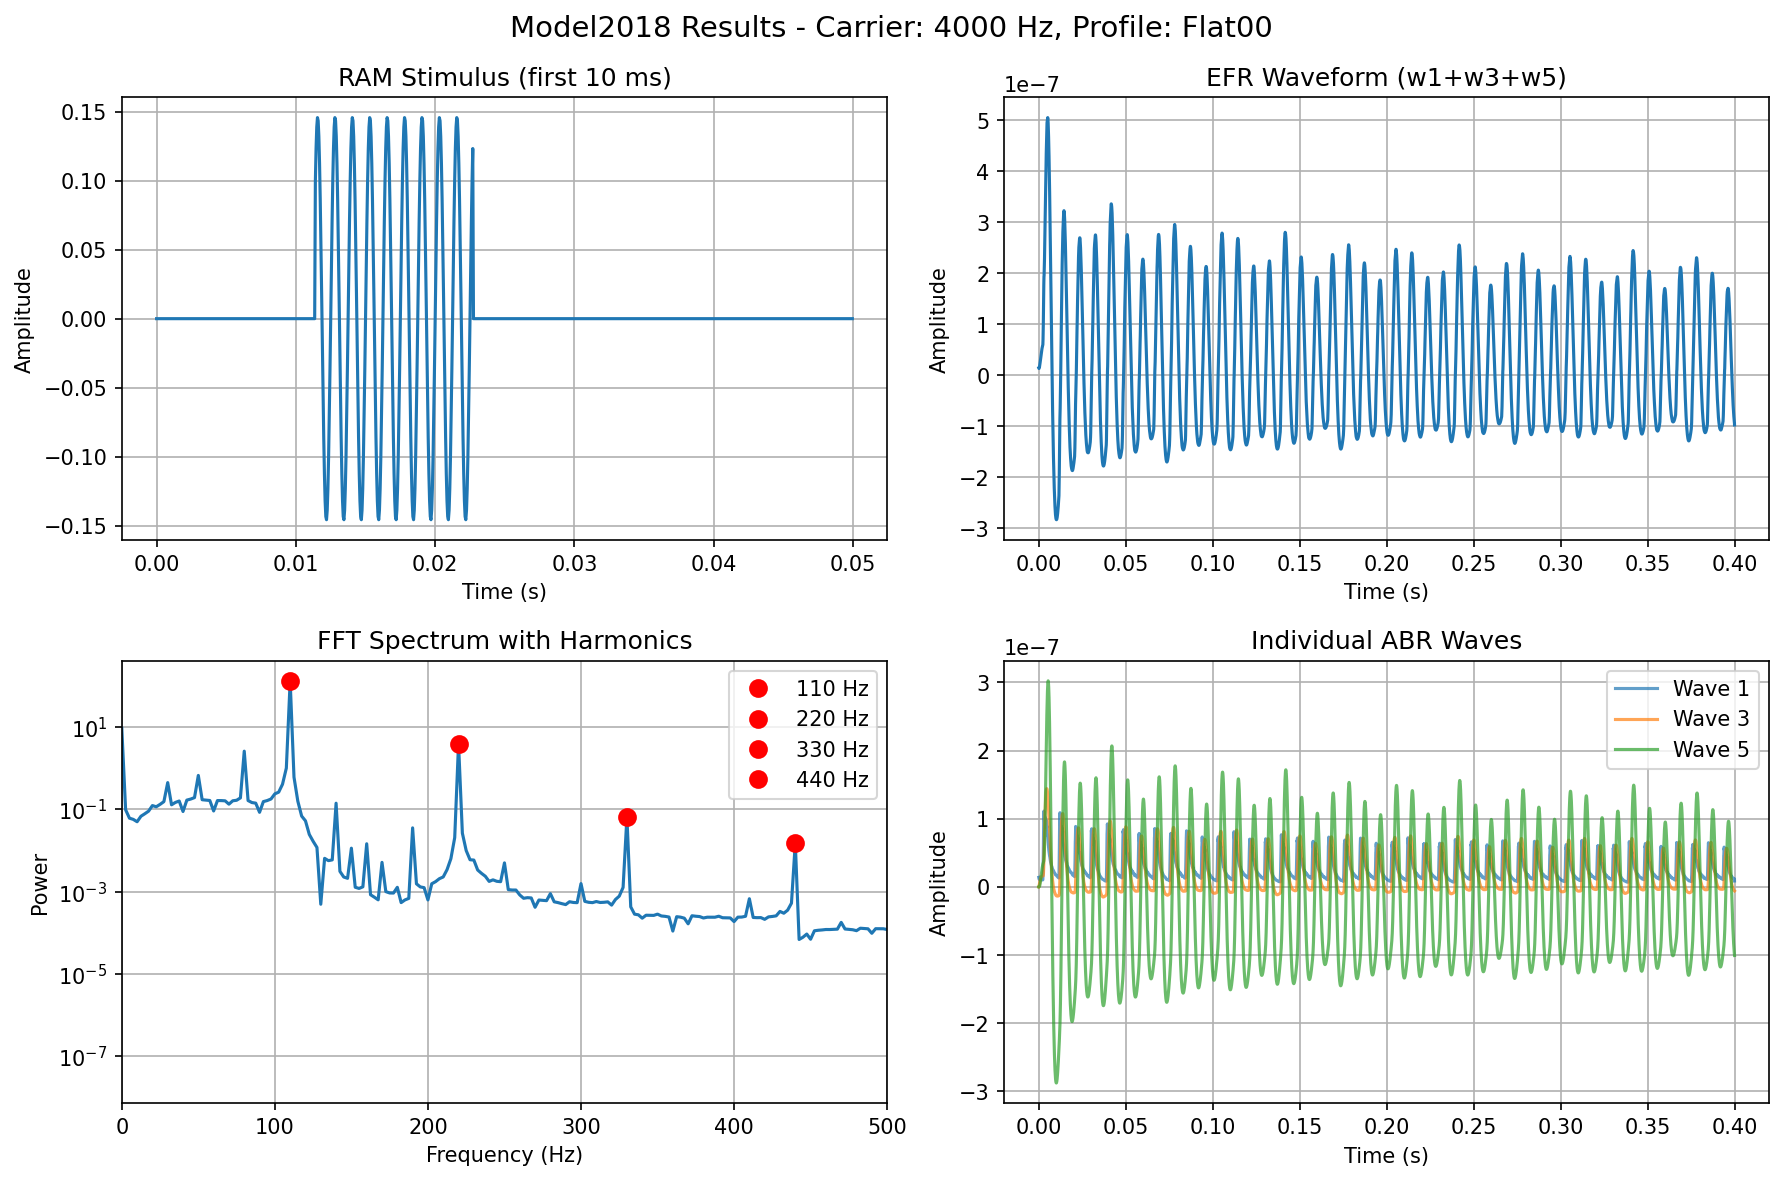
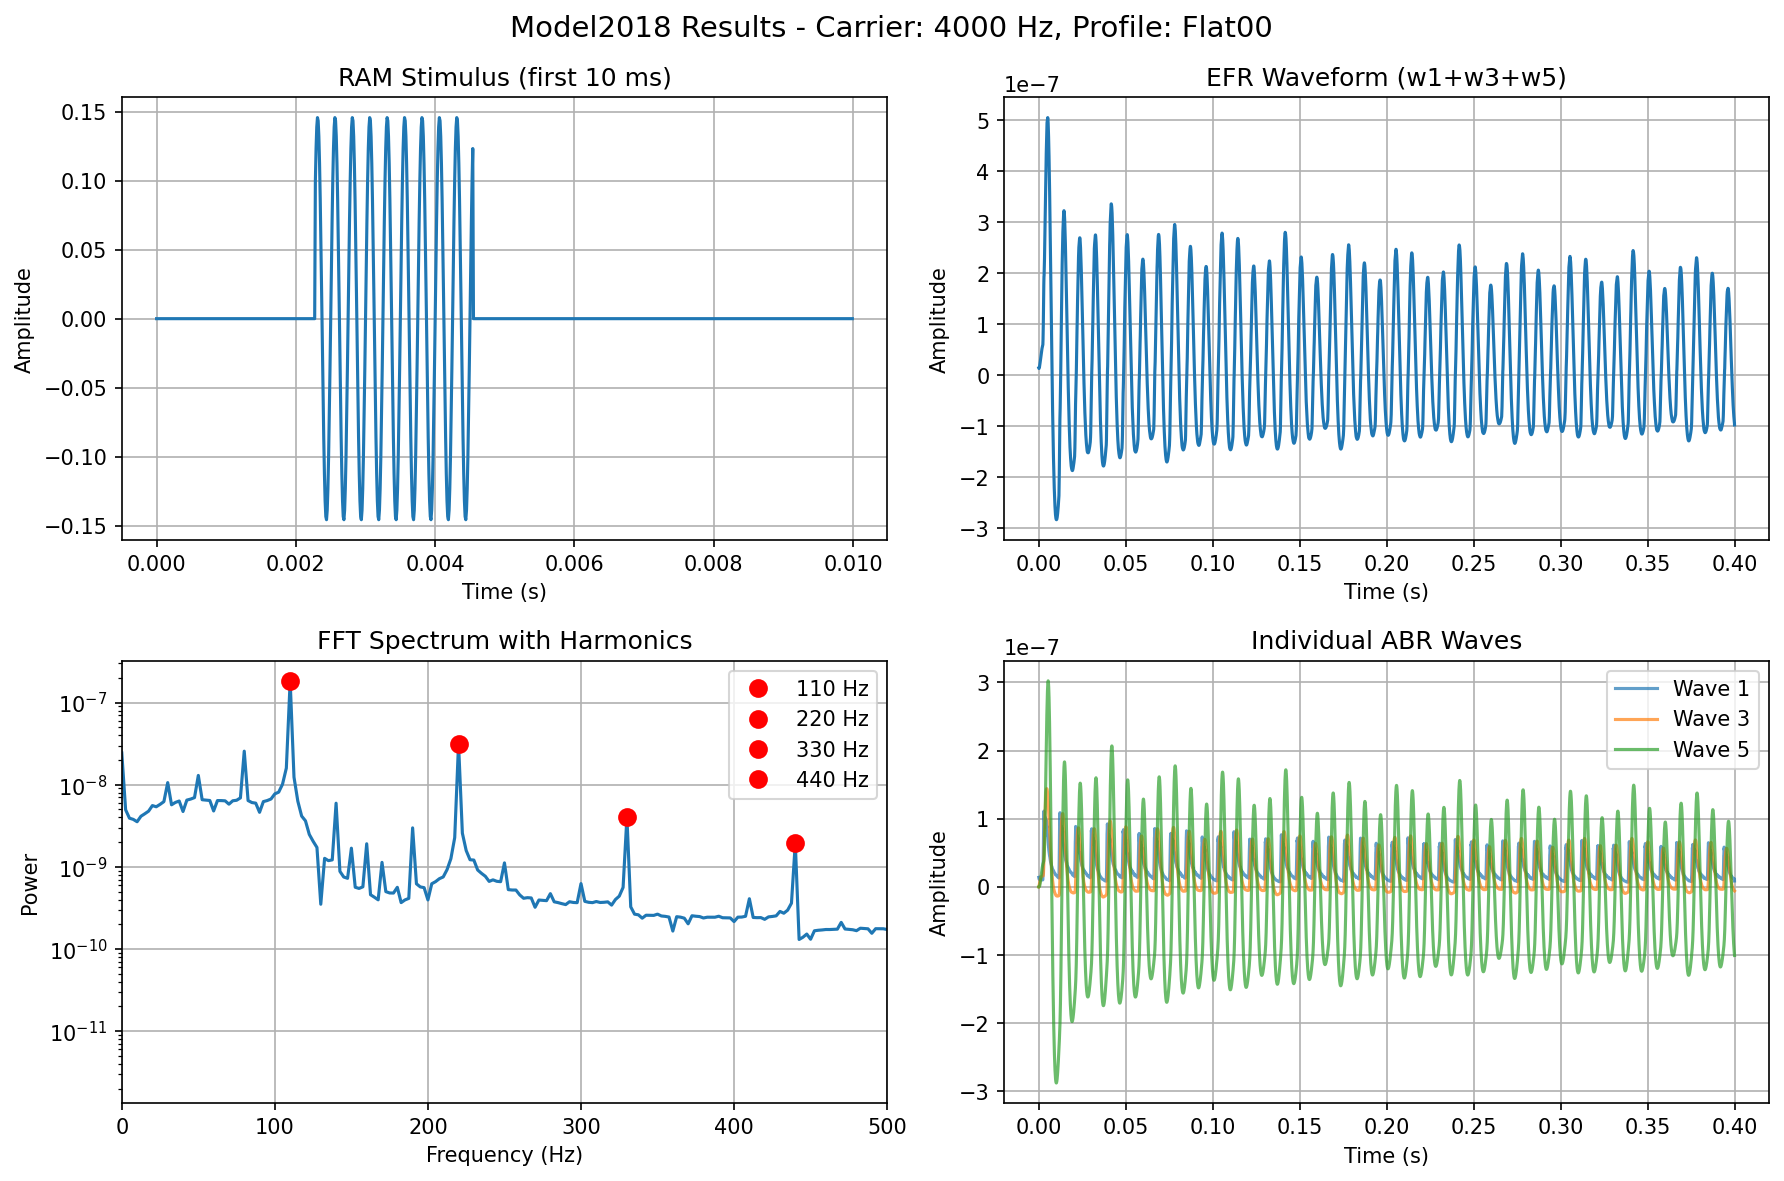
Esta es la segunda parte, queda hacer los cambios necesarios para que realmente se puedan visualizar las gráficas a medida que se generan. No pude probarlo.

diff --git a/backend/src/simulation/Verhulst/src/model2018.py b/backend/src/simulation/Verhulst/src/model2018.py
@@ -18,6 +18,7 @@ import scipy as sp
 import scipy.signal
 import multiprocessing as mp
 import warnings
+from functools import partial
 from typing import Union, Optional, Dict, List, Any
 import os
 from utils.get_RAM_stims import get_RAM_stims
@@ -75,6 +76,163 @@ class ModelOutput:
         self.ic_inh = None       # Componente inhibitoria IC [tiempo_an x secciones]
 
 
+def _solve_one_cochlea(model_data, fs, sectionsNo, probes, storeflag,
+                      sheraPo_val, subject, IrrPct, non_linear_type,
+                      DECIMATION, numH, numM, numL,
+                      on_stage_complete=None):
+    """
+        Procesa un canal completo de la simulación auditiva.
+        
+        Pipeline: Cóclea → IHC → AN (HSR/MSR/LSR) → CN → IC → ABR (W1/W3/W5)
+    """
+    
+    coch = model_data['coch']
+    sig = model_data['sig']
+    irr_on = model_data['irr_on']
+    channel_idx = model_data['channel_idx']
+
+    # ---- Etapa 1: Inicializar y resolver la mecánica coclear ----
+    # Configura los polos de Shera (perfil auditivo) y resuelve la
+    # ecuación diferencial de la línea de transmisión coclear.
+    coch.init_model(
+        sig, fs, sectionsNo, probes,
+        Zweig_irregularities=irr_on,
+        sheraPo=sheraPo_val,
+        subject=subject,
+        IrrPct=IrrPct,
+        non_linearity_type=non_linear_type
+    )
+
+    # Resolver mecánica coclear (ondas viajeras en la membrana basilar)
+    coch.solve(store_internals=('d' in storeflag))
+
+    # Crear estructura de salida
+    output = ModelOutput()
+    output.cf = coch.cf
+    output.fs_bm = fs
+    output.fs_ihc = fs
+    output.fs_an = fs // DECIMATION
+    output.fs_abr = fs // DECIMATION
+
+    # Almacenar velocidad BM si fue solicitada
+    if 'v' in storeflag:
+        output.v = coch.Vsolution
+    # Almacenar desplazamiento BM si fue solicitado
+    if 'y' in storeflag:
+        output.y = coch.Ysolution
+    # Almacenar emisión otoacústica si fue solicitada
+    if 'e' in storeflag:
+        output.emission = coch.oto_emission
+    # Almacenar polo de shera si fue solicitado
+    if 'd' in storeflag:
+        output.sheraPt = coch.SheraPsolution
+
+    if on_stage_complete:
+        on_stage_complete(channel_idx, 'cochlea', output)
+
+    # ---- Etapa 2: Transducción mecano-eléctrica en la IHC ----
+    # La velocidad BM (Vsolution) deflecta los estereocilios de las IHC,
+    # generando corrientes de transducción que producen el potencial receptor (Vm).
+    if any(flag in storeflag for flag in 'ihmlbwd'):
+        magic_constant = 0.118
+        if 'd' in storeflag:
+            Vm, mt_out, Imet_out, Ikf_out, Iks_out = ihc.inner_hair_cell_potential(
+                coch.Vsolution * magic_constant, fs, store_internals=True)
+            output.mt_ihc = mt_out
+            output.Imet = Imet_out
+            output.Ikf = Ikf_out
+            output.Iks = Iks_out
+        else:
+            Vm = ihc.inner_hair_cell_potential(coch.Vsolution * magic_constant, fs)
+
+        if 'i' in storeflag:
+            output.ihc = Vm
+
+        if on_stage_complete:
+            on_stage_complete(channel_idx, 'ihc', output)
+
+        # ---- Etapa 3: Submuestreo para el nervio auditivo ----
+        # El nervio auditivo opera a frecuencias de muestreo menores
+        # que la mecánica coclear (la sinapsis actúa como filtro paso bajo).
+        dec_factor = 5
+        Vm_resampled = sp.signal.decimate(Vm, dec_factor, axis=0, n=30, ftype='fir')
+        Vm_resampled[0:5, :] = Vm[0, 0]
+        Fs_res = fs / dec_factor
+
+        # ---- Etapa 4: Fibras del nervio auditivo ----
+        # Simula la transducción sináptica IHC → AN para cada tipo de fibra:
+        # HSR, MSR, LSR
+        if any(flag in storeflag for flag in 'hmlbwd'):
+            # HSR (High Spontaneous Rate): fibras de bajo umbral, primeras en responder
+            if 'h' in storeflag or 'b' in storeflag:
+                if 'd' in storeflag:
+                    anfH_raw, qt_H, wt_H, avail_H = anf.auditory_nerve_fiber(
+                        Vm_resampled, Fs_res, 2, store_internals=True)
+                    anfH = anfH_raw * Fs_res
+                    output.qt_H = qt_H
+                    output.wt_H = wt_H
+                    output.avail_H = avail_H
+                else:
+                    anfH = anf.auditory_nerve_fiber(Vm_resampled, Fs_res, 2) * Fs_res
+                if 'h' in storeflag:
+                    output.anfH = anfH
+
+            # MSR (Medium Spontaneous Rate): umbral intermedio
+            if 'm' in storeflag or 'b' in storeflag or 'w' in storeflag or 'd' in storeflag:
+                anfM = anf.auditory_nerve_fiber(Vm_resampled, Fs_res, 1) * Fs_res
+                if 'm' in storeflag:
+                    output.anfM = anfM
+
+            # LSR (Low Spontaneous Rate): alto umbral, cruciales para codificar en ruido
+            if 'l' in storeflag or 'b' in storeflag or 'w' in storeflag or 'd' in storeflag:
+                anfL = anf.auditory_nerve_fiber(Vm_resampled, Fs_res, 0) * Fs_res
+                if 'l' in storeflag:
+                    output.anfL = anfL
+
+            if on_stage_complete:
+                on_stage_complete(channel_idx, 'an_fibers', output)
+
+            # ---- Etapa 5: Núcleos del tronco encefálico (CN e IC) ----
+            # CN: suma ponderada de las fibras AN + excitación-inhibición
+            # IC: segundo nivel de integración neural
+            if 'b' in storeflag or 'w' in storeflag or 'd' in storeflag:
+                if 'd' in storeflag:
+                    cn, anSummed, cn_exc, cn_inh = nuclei.cochlearNuclei(
+                        anfH, anfM, anfL, numH, numM, numL, Fs_res, store_internals=True)
+                    ic, ic_exc, ic_inh = nuclei.inferiorColliculus(cn, Fs_res, store_internals=True)
+                    output.cn_exc = cn_exc
+                    output.cn_inh = cn_inh
+                    output.ic_exc = ic_exc
+                    output.ic_inh = ic_inh
+                else:
+                    cn, anSummed = nuclei.cochlearNuclei(
+                        anfH, anfM, anfL, numH, numM, numL, Fs_res)
+                    ic = nuclei.inferiorColliculus(cn, Fs_res)
+
+                if 'b' in storeflag:
+                    output.cn = cn
+                    output.ic = ic
+                    output.an_summed = anSummed
+
+                if on_stage_complete:
+                    on_stage_complete(channel_idx, 'brainstem', output)
+
+                # ---- Etapa 6: Ondas del ABR ----
+                # W1 (Onda I): nervio auditivo sumado × M1
+                # W3 (Onda III): núcleo coclear sumado × M3
+                # W5 (Onda V): colículo inferior sumado × M5
+                # La suma W1+W3+W5 = EFR (Envelope Following Response)
+                if 'w' in storeflag:
+                    output.w1 = nuclei.M1 * np.sum(anSummed, axis=1)
+                    output.w3 = nuclei.M3 * np.sum(cn, axis=1)
+                    output.w5 = nuclei.M5 * np.sum(ic, axis=1)
+
+                    if on_stage_complete:
+                        on_stage_complete(channel_idx, 'abr', output)
+
+    return output
+
+
 def model2018(
     sign: np.ndarray,
     fs: float,
@@ -89,7 +247,8 @@ def model2018(
     nM: Union[int, np.ndarray] = 3,
     nL: Union[int, np.ndarray] = 3,
     clean: int = 1,
-    data_folder: str = './') -> List[ModelOutput]:
+    data_folder: str = './',
+    on_stage_complete: Optional[callable] = None) -> List[ModelOutput]:
     """
     Computational model of the auditory periphery (Verhulst, Altoe, Vasilkov, 2018).
     
@@ -134,6 +293,12 @@ def model2018(
         Not used in Python version (kept for compatibility)
     data_folder : str, optional
         Not used in Python version (kept for compatibility)
+    on_stage_complete : callable, optional
+        Callback invoked after each simulation stage completes.
+        Signature: `on_stage_complete(channel_idx, stage_name, partial_output)`
+        where stage_name is one of: 'cochlea', 'ihc', 'an_fibers', 'brainstem', 'abr'.
+        The callback receives the partial ModelOutput object at that point.
+        NOTE: only works in sequential mode (single channel). Ignored with multiprocessing.
         
     Returns:
     --------
@@ -215,145 +380,36 @@ def model2018(
     cochlear_list = []
     for i in range(channels):
         coch = cochlea_model()
-        cochlear_list.append([coch, sign[i], irregularities[i], i])
+        cochlear_list.append({
+            'coch': coch,
+            'sig': sign[i],
+            'irr_on': irregularities[i],
+            'channel_idx': i,
+        })
     
-    def solve_one_cochlea(model_data):
-        """
-        Procesa un canal completo de la simulación auditiva.
-        
-        Pipeline: Cóclea → IHC → AN (HSR/MSR/LSR) → CN → IC → ABR (W1/W3/W5)
-        """
-        coch, sig, irr_on, channel_idx = model_data
-        
-        # ---- Etapa 1: Inicializar y resolver la mecánica coclear ----
-        # Configura los polos de Shera (perfil auditivo) y resuelve la
-        # ecuación diferencial de la línea de transmisión coclear.
-        coch.init_model(
-            sig, fs, sectionsNo, probes,
-            Zweig_irregularities=irr_on,
-            sheraPo=sheraPo_val,
-            subject=subject,
-            IrrPct=IrrPct,
-            non_linearity_type=non_linear_type
-        )
-        
-        # Resolver mecánica coclear (ondas viajeras en la membrana basilar)
-        coch.solve(store_internals=('d' in storeflag))
-        
-        # Crear estructura de salida
-        output = ModelOutput()
-        output.cf = coch.cf
-        output.fs_bm = fs
-        output.fs_ihc = fs
-        output.fs_an = fs // DECIMATION
-        output.fs_abr = fs // DECIMATION
-        
-        # Almacenar velocidad BM si fue solicitada
-        if 'v' in storeflag:
-            output.v = coch.Vsolution
-            
-        # Almacenar desplazamiento BM si fue solicitado
-        if 'y' in storeflag:
-            output.y = coch.Ysolution
-            
-        # Almacenar emisiones otoacústicas si fue solicitado
-        if 'e' in storeflag:
-            output.emission = coch.oto_emission
-            
-        if 'd' in storeflag:
-            output.sheraPt = coch.SheraPsolution
-        # ---- Etapa 2: Transducción mecano-eléctrica en la IHC ----
-        # La velocidad BM (Vsolution) deflecta los estereocilios de las IHC,
-        # generando corrientes de transducción que producen el potencial receptor (Vm).
-        if any(flag in storeflag for flag in 'ihmlbwd'):
-            # magic_constant (0.118): factor de escala velocidad BM → deflexión de estereocilios
-            magic_constant = 0.118
-            if 'd' in storeflag:
-                Vm, mt_out, Imet_out, Ikf_out, Iks_out = ihc.inner_hair_cell_potential(coch.Vsolution * magic_constant, fs, store_internals=True)
-                output.mt_ihc = mt_out
-                output.Imet = Imet_out
-                output.Ikf = Ikf_out
-                output.Iks = Iks_out
-            else:
-                Vm = ihc.inner_hair_cell_potential(coch.Vsolution * magic_constant, fs)
-
-            if 'i' in storeflag:
-                output.ihc = Vm
-                
-            # ---- Etapa 3: Submuestreo para el nervio auditivo ----
-            # El nervio auditivo opera a frecuencias de muestreo menores
-            # que la mecánica coclear (la sinapsis actúa como filtro paso bajo).
-            dec_factor = 5
-            Vm_resampled = sp.signal.decimate(Vm, dec_factor, axis=0, n=30, ftype='fir')
-            Vm_resampled[0:5, :] = Vm[0, 0]  # valor de reposo para eliminar ruido del decimado
-            Fs_res = fs / dec_factor
-            
-            # ---- Etapa 4: Fibras del nervio auditivo ----
-            # Simula la transducción sináptica IHC → AN para cada tipo de fibra:
-            if any(flag in storeflag for flag in 'hmlbwd'):
-                
-                # HSR (High Spontaneous Rate): fibras de bajo umbral, primeras en responder
-                if 'h' in storeflag or 'b' in storeflag:
-                    if 'd' in storeflag:
-                        anfH_raw, qt_H, wt_H, avail_H = anf.auditory_nerve_fiber(Vm_resampled, Fs_res, 2, store_internals=True)
-                        anfH = anfH_raw * Fs_res
-                        output.qt_H = qt_H
-                        output.wt_H = wt_H
-                        output.avail_H = avail_H
-                    else:
-                        anfH = anf.auditory_nerve_fiber(Vm_resampled, Fs_res, 2) * Fs_res
-                    if 'h' in storeflag:
-                        output.anfH = anfH
-                        
-                # MSR (Medium Spontaneous Rate): umbral intermedio
-                if 'm' in storeflag or 'b' in storeflag or 'w' in storeflag or 'd' in storeflag:
-                    anfM = anf.auditory_nerve_fiber(Vm_resampled, Fs_res, 1) * Fs_res
-                    if 'm' in storeflag:
-                        output.anfM = anfM
-                        
-                # LSR (Low Spontaneous Rate): alto umbral, cruciales para codificar en ruido
-                if 'l' in storeflag or 'b' in storeflag or 'w' in storeflag or 'd' in storeflag:
-                    anfL = anf.auditory_nerve_fiber(Vm_resampled, Fs_res, 0) * Fs_res
-                    if 'l' in storeflag:
-                        output.anfL = anfL
-                
-                # ---- Etapa 5: Núcleos del tronco encefálico (CN e IC) ----
-                # CN: suma ponderada de las fibras AN + excitación-inhibición
-                # IC: segundo nivel de integración neural
-                if 'b' in storeflag or 'w' in storeflag or 'd' in storeflag:
-                    if 'd' in storeflag:
-                        cn, anSummed, cn_exc, cn_inh = nuclei.cochlearNuclei(anfH, anfM, anfL, numH, numM, numL, Fs_res, store_internals=True)
-                        ic, ic_exc, ic_inh = nuclei.inferiorColliculus(cn, Fs_res, store_internals=True)
-                        output.cn_exc = cn_exc
-                        output.cn_inh = cn_inh
-                        output.ic_exc = ic_exc
-                        output.ic_inh = ic_inh
-                    else:
-                        cn, anSummed = nuclei.cochlearNuclei(anfH, anfM, anfL, numH, numM, numL, Fs_res)
-                        ic = nuclei.inferiorColliculus(cn, Fs_res)
-                    if 'b' in storeflag:
-                        output.cn = cn
-                        output.ic = ic
-                        output.an_summed = anSummed
-                    # ---- Etapa 6: Ondas del ABR ----
-                    # W1 (Onda I): nervio auditivo sumado × M1
-                    # W3 (Onda III): núcleo coclear sumado × M3
-                    # W5 (Onda V): colículo inferior sumado × M5
-                    # La suma W1+W3+W5 = EFR (Envelope Following Response)
-                    if 'w' in storeflag:
-                        output.w1 = nuclei.M1 * np.sum(anSummed, axis=1)
-                        output.w3 = nuclei.M3 * np.sum(cn, axis=1)
-                        output.w5 = nuclei.M5 * np.sum(ic, axis=1)
-        
-        return output
+    _solve_channel = partial(
+        _solve_one_cochlea, fs=fs, sectionsNo=sectionsNo, probes=probes,
+        storeflag=storeflag, sheraPo_val=sheraPo_val, subject=subject,
+        IrrPct=IrrPct, non_linear_type=non_linear_type, DECIMATION=DECIMATION,
+        numH=numH, numM=numM, numL=numL
+    )
     
     # ---- Ejecución paralela o secuencial ----
     # Para múltiples canales se usa multiprocessing para acelerar la simulación.
+    # NOTA: on_stage_complete solo funciona en modo secuencial (un solo canal),
+    # porque el callback no puede ser serializado para los workers de multiprocessing.
     if channels == 1:
-        results = [solve_one_cochlea(cochlear_list[0])]
+        _solve_with_cb = partial(
+            _solve_one_cochlea, fs=fs, sectionsNo=sectionsNo, probes=probes,
+            storeflag=storeflag, sheraPo_val=sheraPo_val, subject=subject,
+            IrrPct=IrrPct, non_linear_type=non_linear_type, DECIMATION=DECIMATION,
+            numH=numH, numM=numM, numL=numL,
+            on_stage_complete=on_stage_complete
+        )
+        results = [_solve_with_cb(cochlear_list[0])]
     else:
         with mp.Pool(mp.cpu_count(), maxtasksperchild=1) as p:
-            results = p.map(solve_one_cochlea, cochlear_list)
+            results = p.map(_solve_channel, cochlear_list)
     
     print("cochlear simulation: done")
     

diff --git a/backend/src/simulation/Verhulst/examples/ExampleSimulation.py b/backend/src/simulation/Verhulst/examples/ExampleSimulation.py
@@ -4,7 +4,7 @@
 EJEMPLO DE SIMULACIÓN: Interfaz simplificada para el modelo Verhulst 2018
 =============================================================================
 Este script proporciona una interfaz fácil de usar para ejecutar el modelo
-completo de la periferia auditiva y calcular el EFR (Envelope Following Response).
+completo de la periferia auditiva y calcular el EFR (Envelope Following Response) y demás gráficas.
 
 Pipeline completo:
   1. Genera un estímulo RAM (Rectangular Amplitude Modulation) automáticamente
